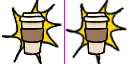
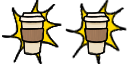
Added animated coffee

Changed region(s): [[0.5, 0.0, 0.5312, 1.0]]

diff --git a/src/game/scenes/PlatformerScene.ts b/src/game/scenes/PlatformerScene.ts
@@ -48,7 +48,10 @@ export function createPlatformerScene(
     key: "PlatformerScene",
     preload(this: Phaser.Scene) {
       this.load.image("background", "/background.png");
-      this.load.image("coffee", "/coffee.png");
+      this.load.spritesheet("coffee", "/coffee.png", {
+        frameWidth: 64,
+        frameHeight: 64,
+      });
       this.load.spritesheet("tiles", "/tiles.png", {
         frameWidth: 64,
         frameHeight: 64,
@@ -83,6 +86,15 @@ export function createPlatformerScene(
           key: "bun-jump",
           frames: [{ key: "bun", frame: 1 }],
           frameRate: 10,
+          repeat: -1,
+        });
+      }
+
+      if (!this.anims.exists("coffee-idle")) {
+        this.anims.create({
+          key: "coffee-idle",
+          frames: this.anims.generateFrameNumbers("coffee", { start: 0, end: 1 }),
+          frameRate: 5,
           repeat: -1,
         });
       }

diff --git a/src/game/entities/Collectible.ts b/src/game/entities/Collectible.ts
@@ -17,7 +17,8 @@ export class Collectible {
     }
 
     this.visual = scene.add.sprite(x, y, "coffee");
-	this.visual.setDepth(2);
+    this.visual.setDepth(2);
+    this.visual.play("coffee-idle");
 
     scene.tweens.add({
       targets: this.visual,
